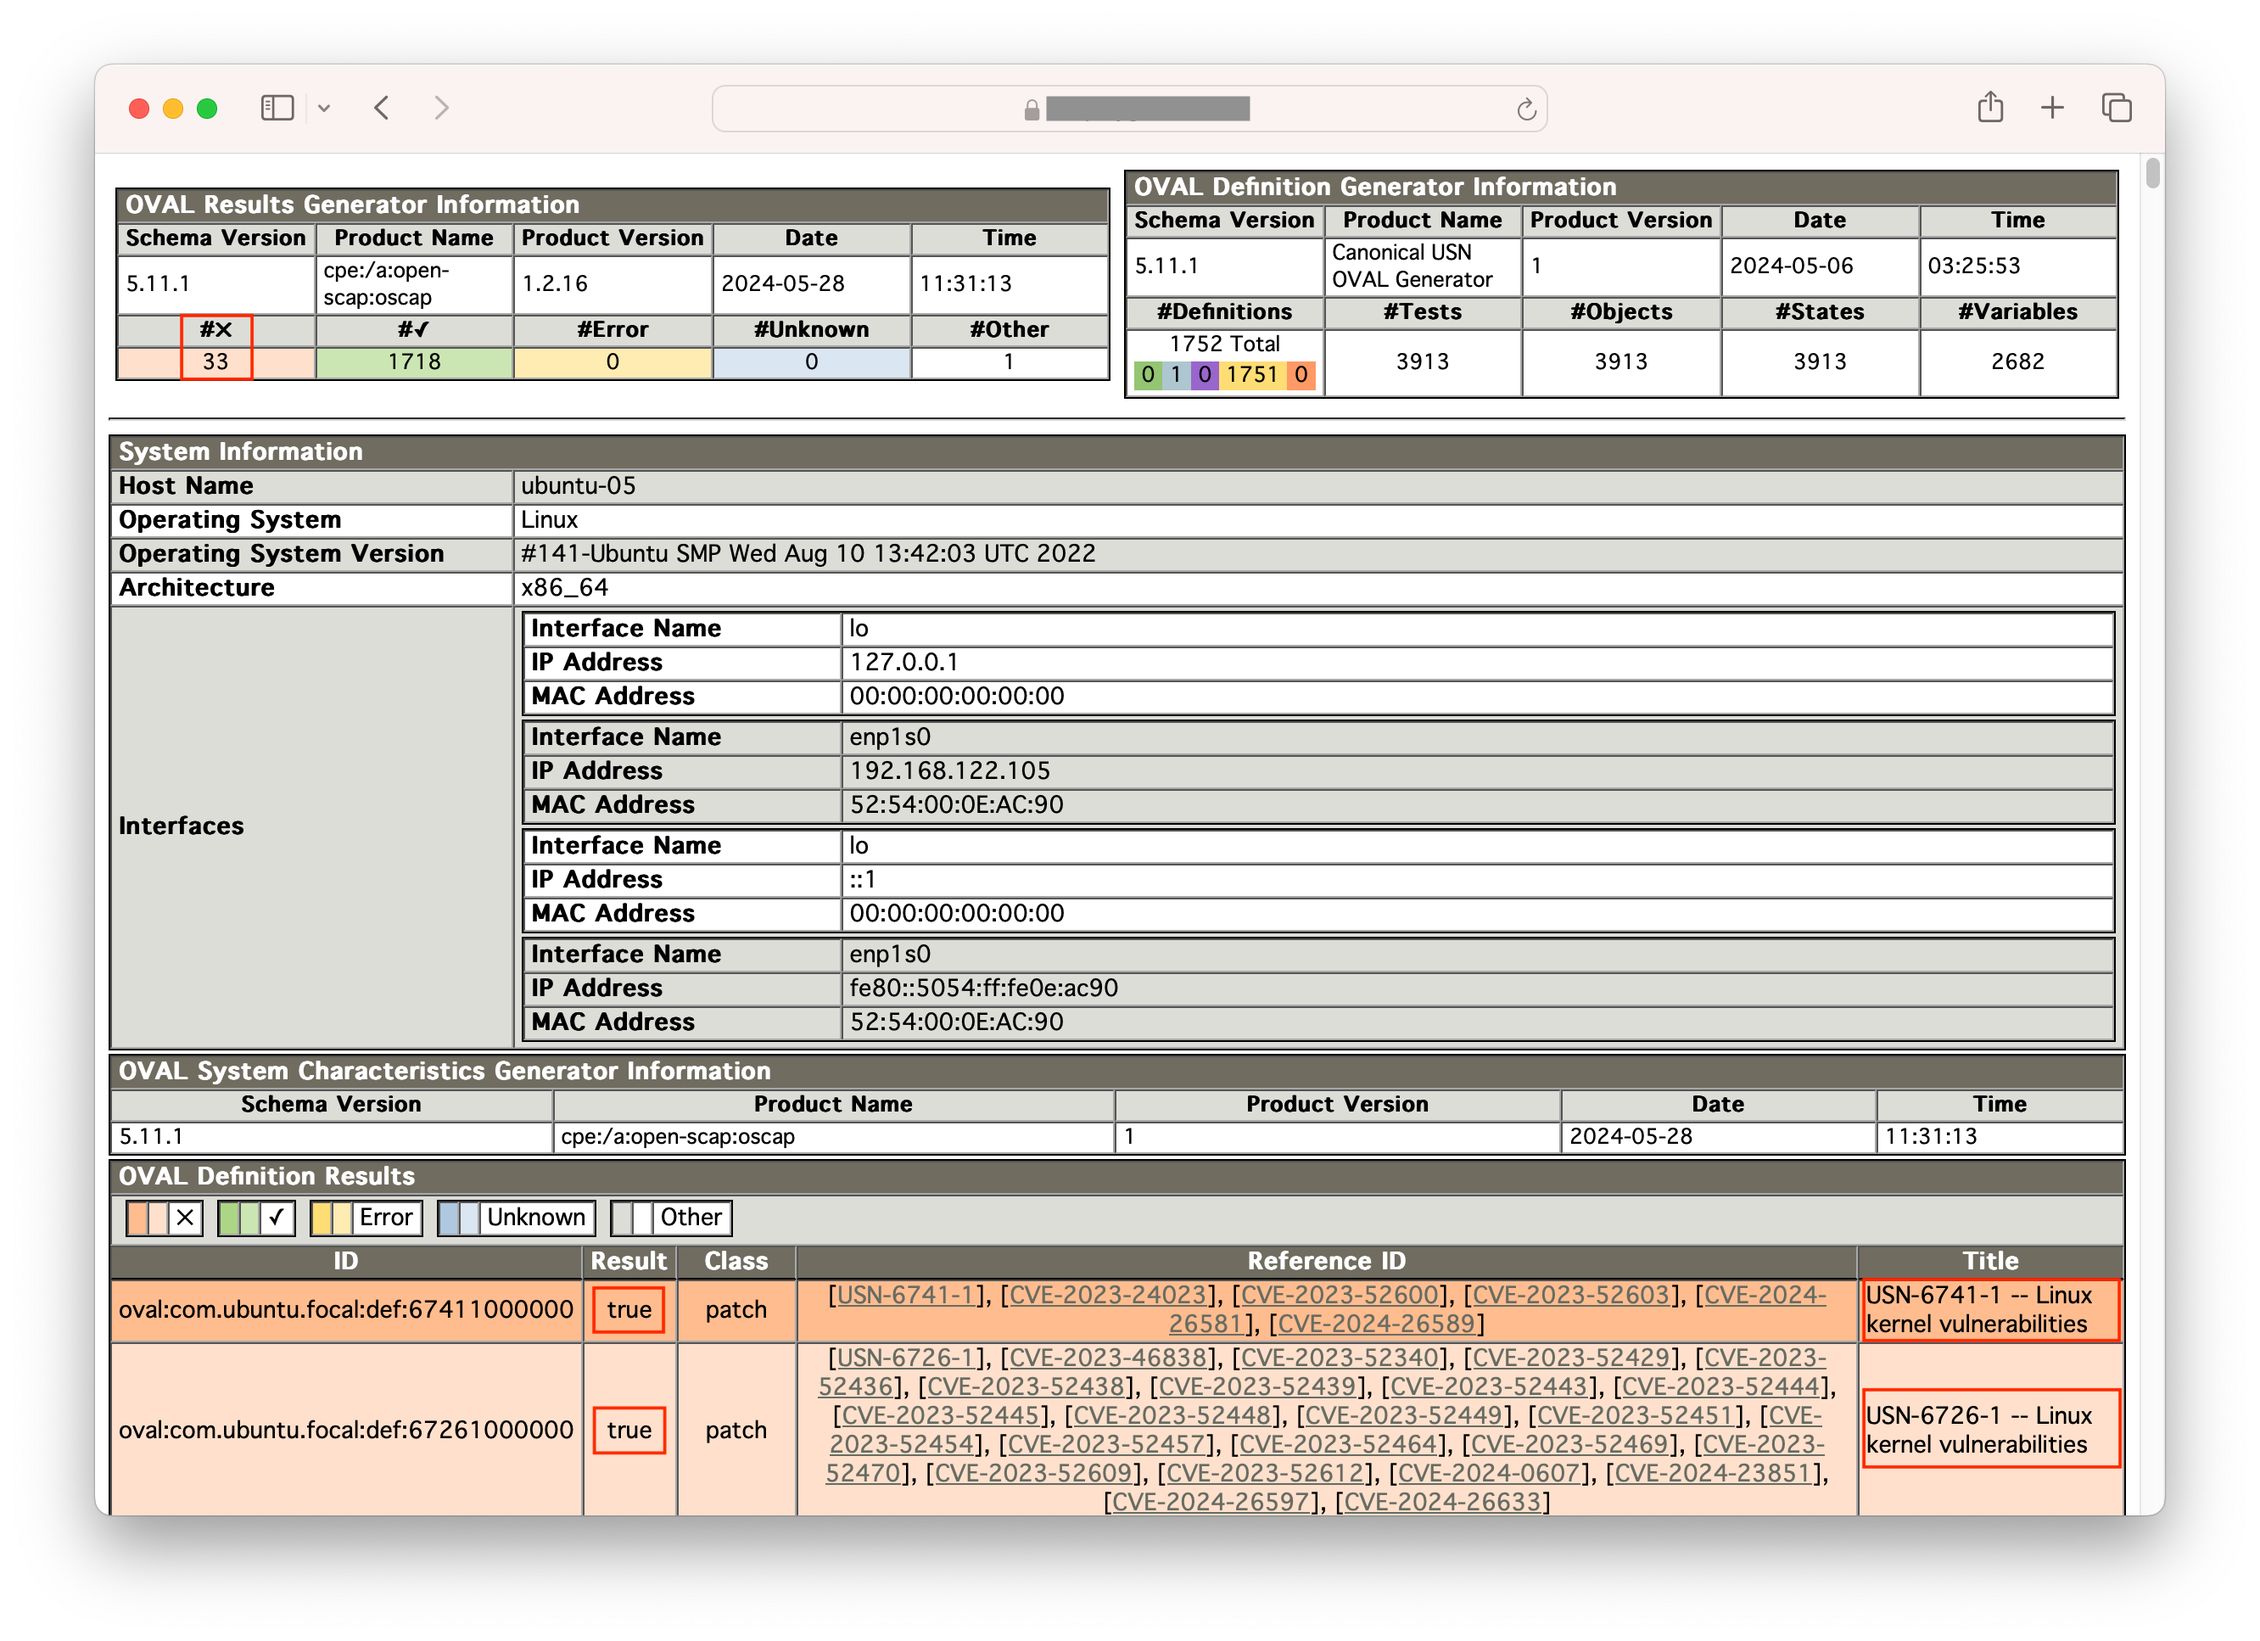
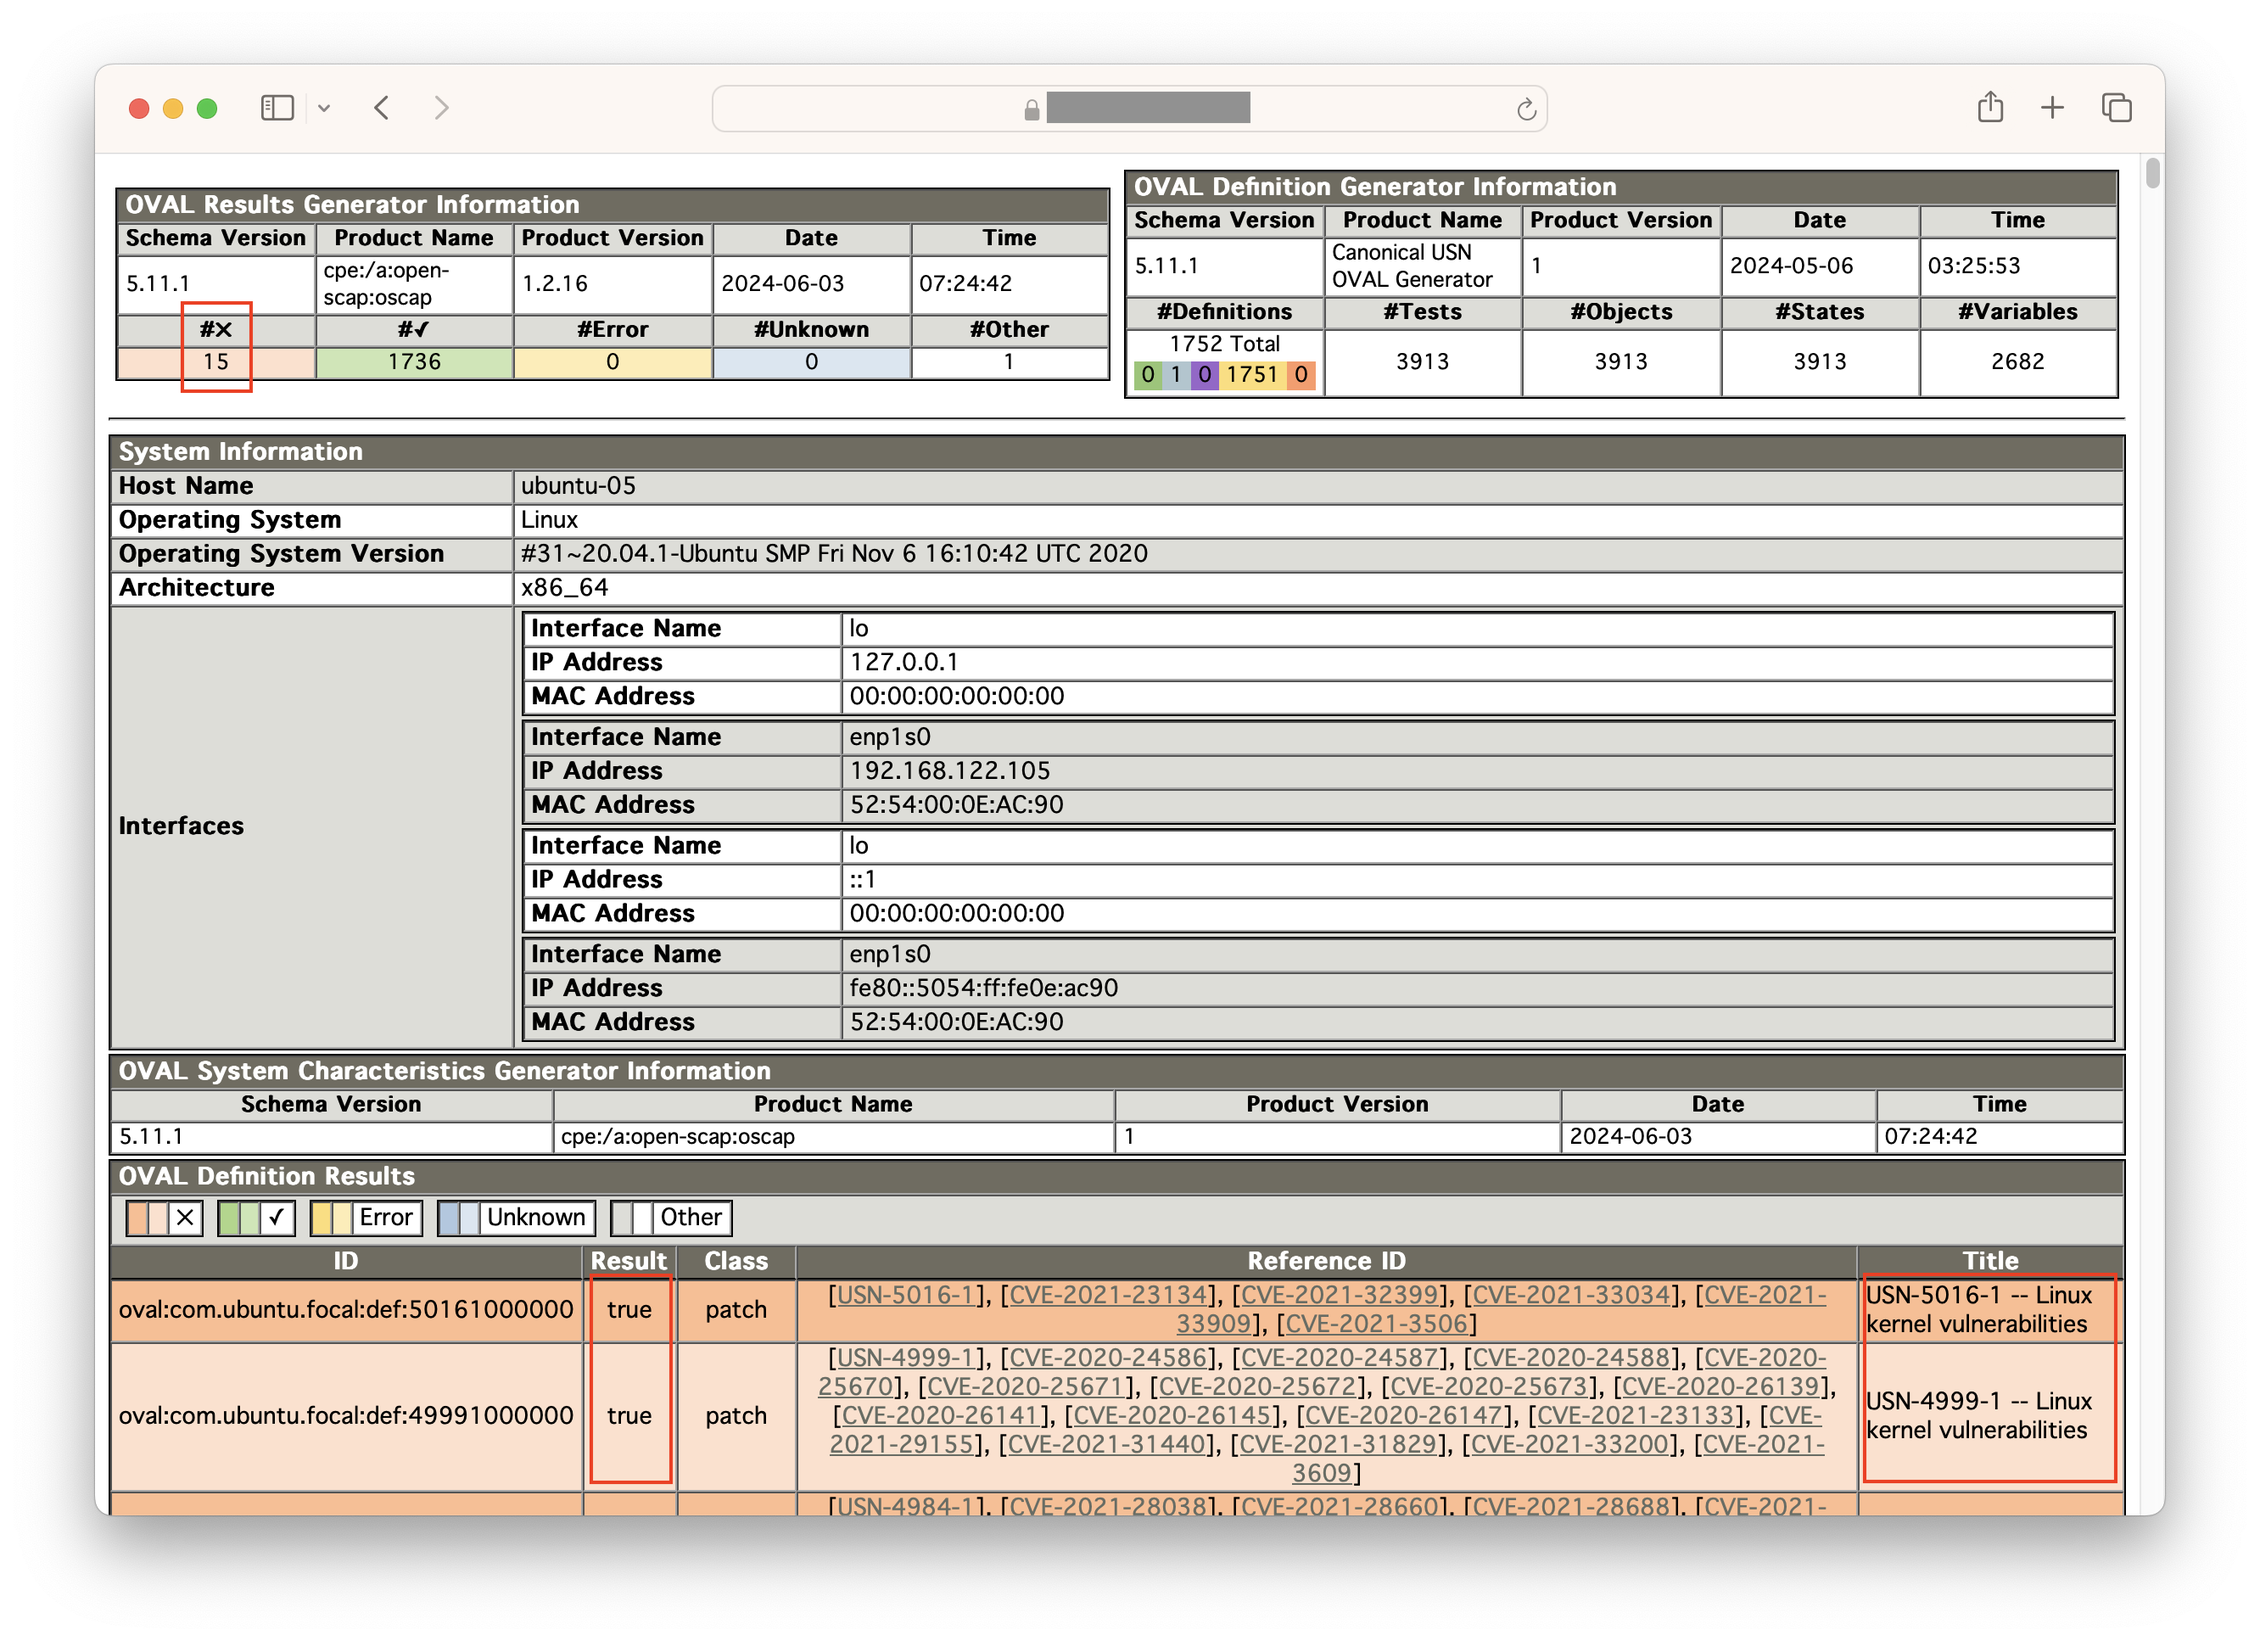
update kernel version to 5.8 from 5.4

diff --git a/README.md b/README.md
@@ -15,17 +15,17 @@ Access the API endpoint `https://<server-api-endpoint>` with your internet brows
 <img src="./images/login.png" alt="Login Image" style="width: 50%;">
 
 #### 2. Check the running OS & Kernel versions
-The system shall be running `Ubuntu 20.04.5 LTS`, installed from an ISO image and has not had security updates applied. Kernel version is `5.4.0-125-generic`.
+The system shall be running `Ubuntu 20.04.6 LTS`, installed from an ISO image and has not had security updates applied. Kernel version is `5.8.0-29-generic`.
 
 ```bash
 $ sudo lsb_release -a
 No LSB modules are available.
-Distributor ID:	Ubuntu
-Description:	Ubuntu 20.04.5 LTS
-Release:	20.04
-Codename:	focal
+Distributor ID: Ubuntu
+Description:    Ubuntu 20.04.6 LTS
+Release:        20.04
+Codename:       focal
 $ uname -r
-5.4.0-125-generic
+5.8.0-29-generic
 ```
 
 #### 3. Register the system with a patch server
@@ -40,20 +40,20 @@ Server Registered
 ```bash
 $ sudo kcarectl --update
 Updates already downloaded
-Patch level 40 applied. Effective kernel version 5.4.0-177.197
+Patch level 11 applied. Effective kernel version 5.8.0-63.7120.04.1
 Kernel is safe
 ```
 
 #### 5. Make sure the effective Kernel is updated without rebooting
 ```bash
 $ uname -r
-5.4.0-177.197
+5.8.0-63.7120.04.1
 ```
 
 #### 6. (optional) Explore the details of the CVE fixes applied to the running Kernel
 ```bash
 $ sudo kcarectl --patch-info | grep kpatch-cve: | less
-kpatch-cve: CVE-2022-33655
+kpatch-cve: CVE-2020-25705
 ...
 ```
 
@@ -62,7 +62,7 @@ kpatch-cve: CVE-2022-33655
 $ sudo kcarectl --unload
 KernelCare protection disabled. Your kernel might not be safe
 $ uname -r
-5.4.0-125-generic
+5.8.0-29-generic
 ```
 
 ## Practical use case with a vulnerability scanner
@@ -75,11 +75,11 @@ KernelCare protection disabled. Your kernel might not be safe
 ```
 
 #### 2. Count the number of existing vulnerabilities in the system
-Initially, 181 unresolved vulnerabilities are found. This is because the system has not applied security updates for Ubuntu 20.04.05. Note that the scanning may take about 30 seconds to complete.
+Initially, 23 unresolved vulnerabilities are found. This is because the system has not applied security updates for Ubuntu 20.04.06. Note that the scanning may take about 30 seconds to complete.
 
 ```bash
 $ oscap oval eval --report report.html com.ubuntu.$(lsb_release -cs).usn.oval.xml | grep -v oval:com.ubuntu.focal:def:100 | grep true | wc -l
-180
+23
 ```
 
 #### 3. Install updates from the apt repository
@@ -88,35 +88,35 @@ $ sudo apt-get upgrade -qq -y
 ```
 
 ```bash
-$ sudo apt-get install -qq -y fwupd libfwupd2 libfwupdplugin5 linux-generic linux-headers-generic linux-image-generic python3-update-manager ubuntu-advantage-tools update-manager-core
+$ sudo apt-get install -qq -y linux-image-5.8.0-63-generic
 ```
 
 #### 4. Run the scanner again
-Now you should have installed all available security updates. Despite that there are still 33 remaining vulnerabilities.
+Now you should have installed all available security updates. Despite that there are still 15 remaining vulnerabilities.
 ```bash
 $ oscap oval eval --report report.html com.ubuntu.$(lsb_release -cs).usn.oval.xml | grep -v oval:com.ubuntu.focal:def:100 | grep true | wc -l
-33
+15
 ```
 
 #### 5. Inspect the scanner report
 Access `https://<server-api-endpoint>/<vm-id>/report.html`
 <img src="./images/scanner-report-01.png" alt="Scanner Report Image" style="width: 80%;">
 
-Remaining issues were reported against Kernel, because the system is still running with the default kernel `5.4.0-125-generic` although a new kernel package has been installed to the filesystem. Normally, you have to reboot the system to activate the new kernel. However, in certain systems, this can cause downtime, which may be problematic.
+Remaining issues were reported against Kernel, because the system is still running with the old kernel `5.8.0-29-generic` although a new kernel package has been installed to the filesystem. Normally, you have to reboot the system to activate the new kernel. However, in certain systems, this can cause downtime, which may be problematic.
 
 #### 6. Apply the patch to the In-memory Kernel without rebooting
 Make sure the `uname -r` command reports the effective running kernel with a security updated version.
 ```bash
 $ uname -r
-5.4.0-125-generic
+5.8.0-29-generic
 
 $ sudo kcarectl --update
 Updates already downloaded
-Patch level 40 applied. Effective kernel version 5.4.0-177.197
+Patch level 11 applied. Effective kernel version 5.8.0-63.7120.04.1
 Kernel is safe
 
 $ uname -r
-5.4.0-177.197
+5.8.0-63.7120.04.1
 ```
 
 #### 7. Run the scanner again
@@ -260,7 +260,7 @@ kpatch-cve: CVE-2022-0847
 #### 8. Make sure the exploit fails
 This time kernel shall block the attack to escalate privileges.
 ```bash
-$ dirtypipez /usr/bin/sudo
+$ dirtypipez
 [+] hijacking suid binary..
 [+] dropping suid shell..
 usage: sudo -h | -K | -k | -V
